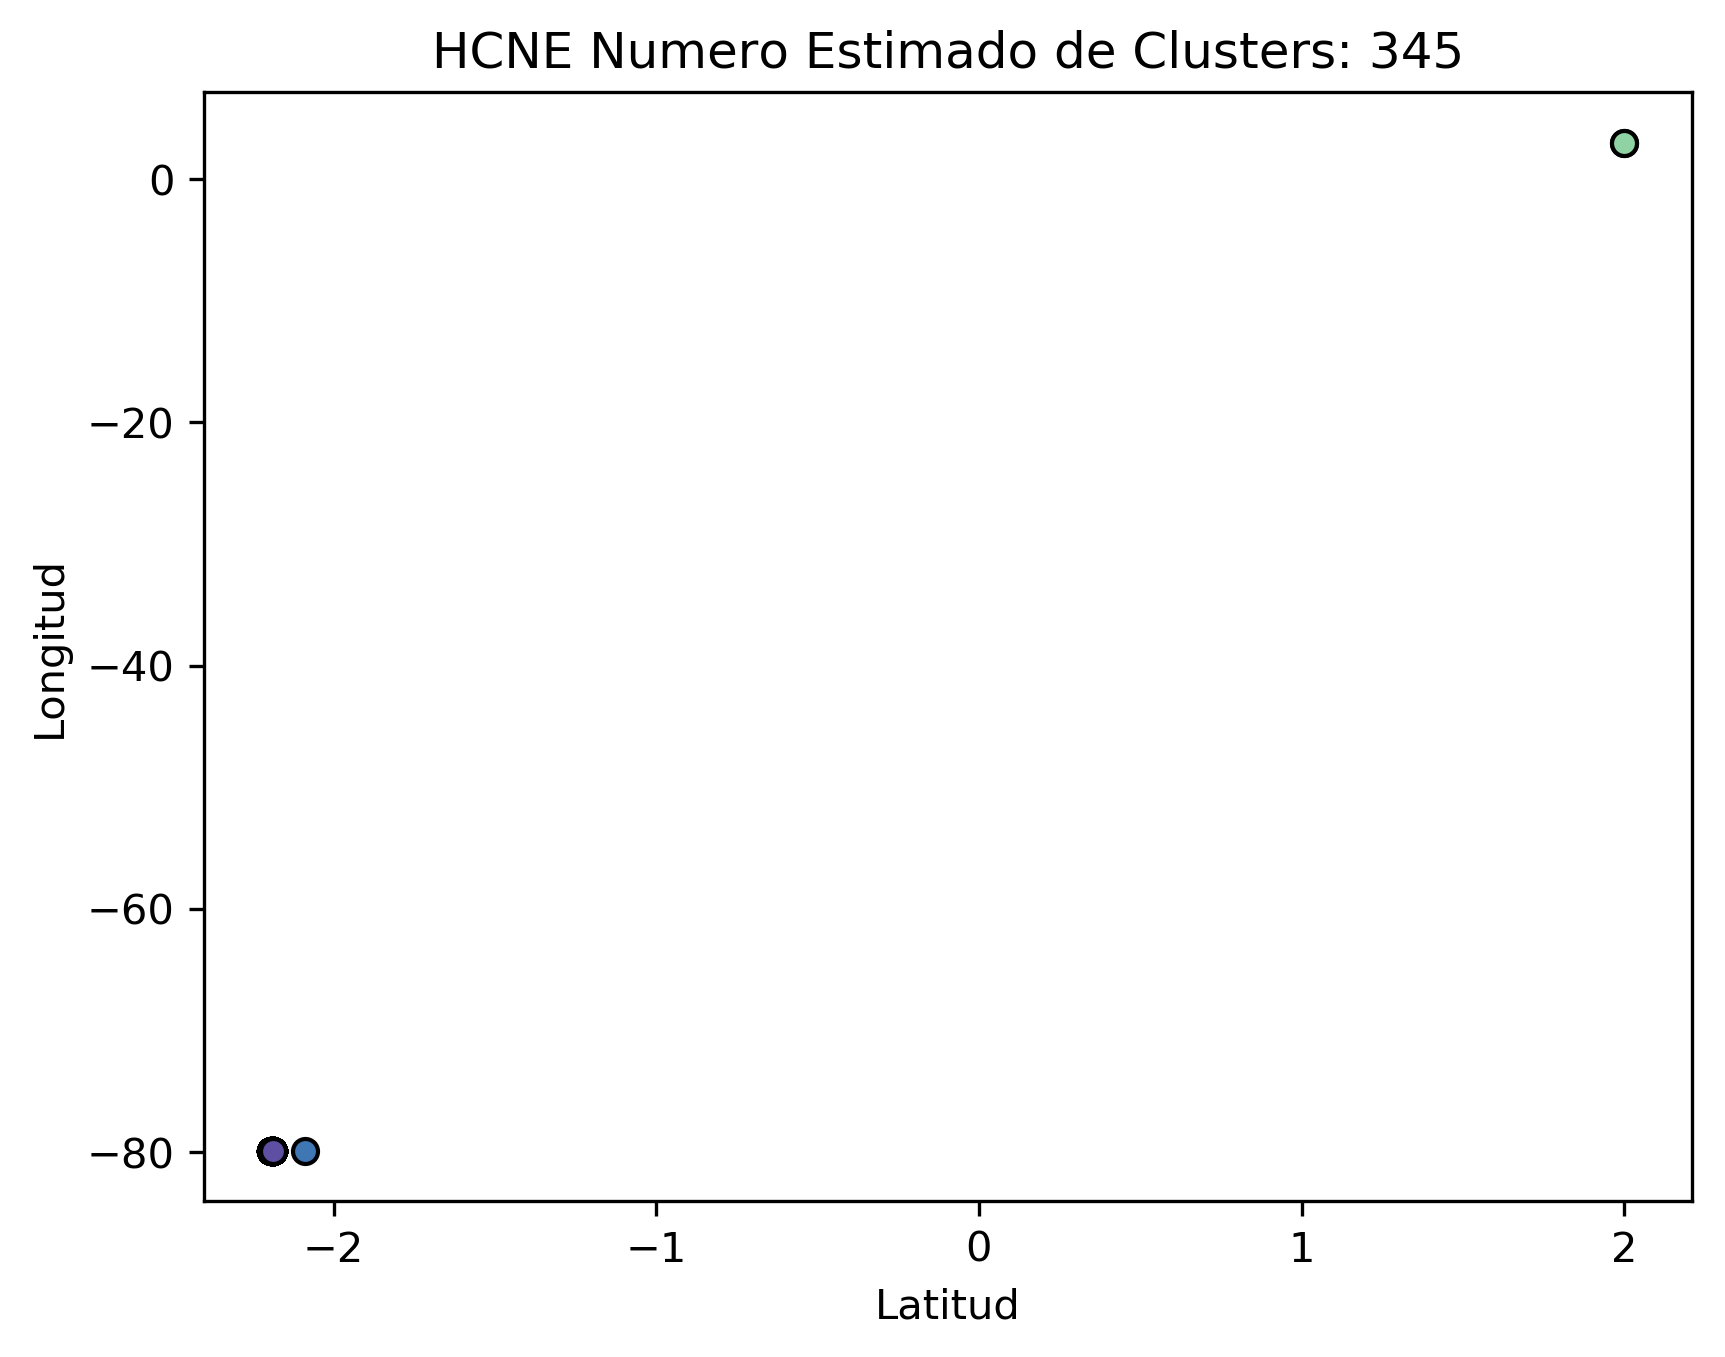
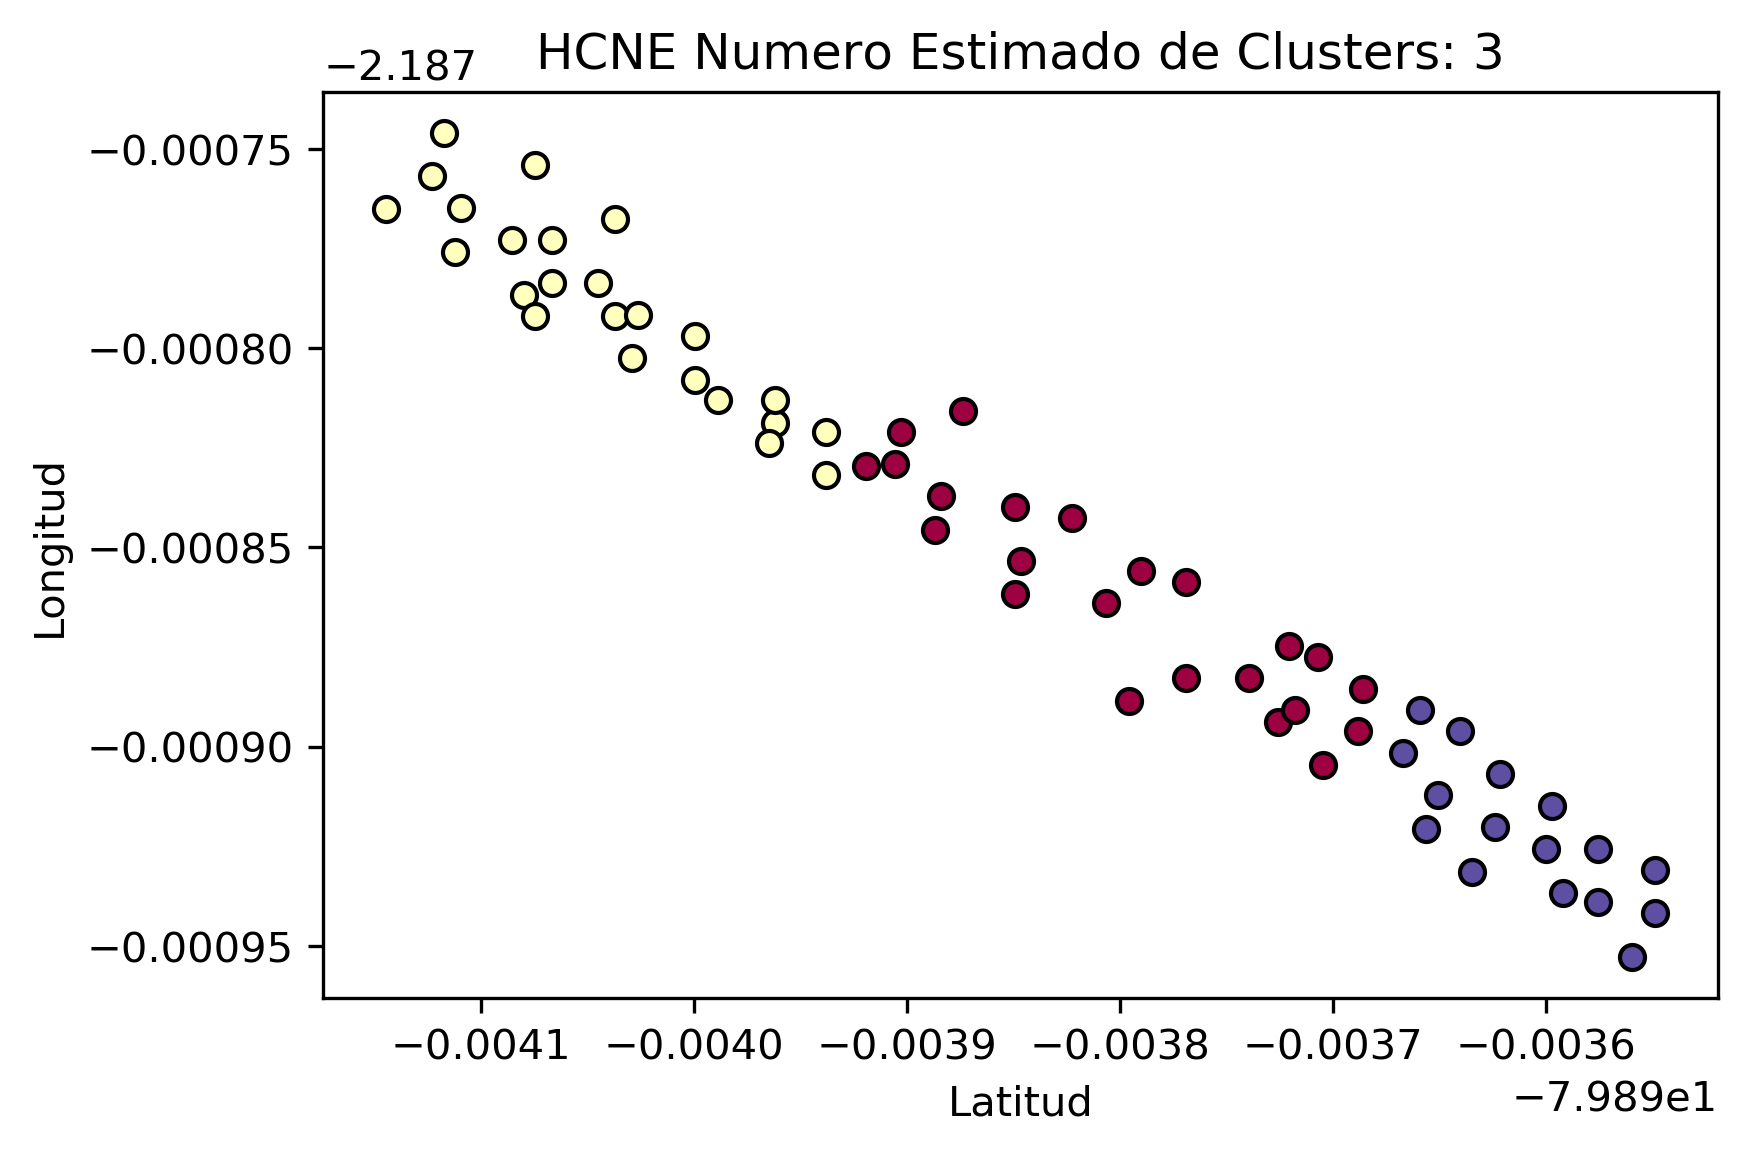
‘py1’

diff --git a/resources/views/layouts/admin/analisis/trayectoriapuntos.blade.php b/resources/views/layouts/admin/analisis/trayectoriapuntos.blade.php
@@ -49,12 +49,12 @@
         </tr>
         <tr>        
           <td align="r" colspan="2">
-            <input class="btn btn-sm btn-warning" type="button" value="KMEANS"    name="bt_kmean"  id="bt_kmean"  align="center" onclick="nn();"/>
-            <input class="btn btn-sm btn-warning" type="button" value="DBSCAN"    name="bt_dbscan"  id="bt_dbscan"  align="center" onclick="nn();"/>
-            <input class="btn btn-sm btn-warning" type="button" value="HCN"    name="bt_hcn"  id="bt_hcn"  align="center" onclick="nn();"/>
-            <input class="btn btn-sm btn-warning" type="button" value="HCNE"    name="bt_hcne"  id="bt_hcne"  align="center" onclick="nn();"/>         
+            <input class="btn btn-sm btn-warning" type="button" value="KMEANS"    name="bt_kmean"  id="bt_kmean"  align="center" onclick="ajax_python1();nn(1);"/>
+            <input class="btn btn-sm btn-warning" type="button" value="DBSCAN"    name="bt_dbscan"  id="bt_dbscan"  align="center" onclick="ajax_python2();nn(2);"/>
+            <input class="btn btn-sm btn-warning" type="button" value="HCN"    name="bt_hcn"  id="bt_hcn"  align="center" onclick="ajax_python3();nn(3);"/>
+            <input class="btn btn-sm btn-warning" type="button" value="HCNE"    name="bt_hcne"  id="bt_hcne"  align="center" onclick="ajax_python4();nn(4);"/>         
           </td>        
-        </tr>     
+        </tr>       
       </table>
     </form>
 
@@ -82,11 +82,12 @@
  
   <script>      
   
-    function nn(){
-                 $.ajax(
+    function nn(algoritmo){
+
+                $.ajax(
             {
               type:"GET",
-              url: "ajax_python/1/1/1",              
+              url: "ajax_python/1/1/"+algoritmo,              
               success: function(result)
               {
               console.log(result); 
@@ -94,13 +95,29 @@
               var newcoor2       = new Array();
                 newcoor2[0]    = result[0];
                 newcoor2[1]    = result[1];
-              L.marker(newcoor2, {icon: Icon_limite2}).addTo(mymap).bindPopup("Lat: "+lat+" lng: "+lng); 
-               },
+              L.marker(newcoor2, {icon: Icon_limite2}).addTo(mymap).bindPopup("Lat: "+result[0]+" lng: "+result[1]+" Algoritmo:  "+result[6]); 
+
+              console.log(result); 
+                //var imagen = document.getElementById('imagen').src = "{{ asset('img/images/analisis2.png') }}";
+              var newcoor3       = new Array();
+                newcoor3[0]    = result[2];
+                newcoor3[1]    = result[3];
+              L.marker(newcoor3, {icon: Icon_limite2}).addTo(mymap).bindPopup("Lat: "+result[2]+" lng: "+result[3]+" Algoritmo:  "+result[6]); 
+
+
+              console.log(result); 
+                //var imagen = document.getElementById('imagen').src = "{{ asset('img/images/analisis2.png') }}";
+              var newcoor4       = new Array();
+                newcoor4[0]    = result[4];
+                newcoor4[1]    = result[5];
+              L.marker(newcoor4, {icon: Icon_limite2}).addTo(mymap).bindPopup("Lat: "+result[4]+" lng: "+result[5]+" Algoritmo:  "+result[6]); 
+
+              },
            error:function(result){
-            swal("", "Error al generar el análisis.!", "success",{icon: "warning",});            
-           }
+            swal("", "Error al generar el análisis.!", "success",{icon: "warning",});
+            }
             });
-    }  
+    }
       var cont_vehiculos=0;
       var bandera_analisis;      
       var latlngs      = new Array();
@@ -448,21 +465,17 @@
   <table>
       <tr>
         <th>
-                    <input class="btn btn-sm btn-warning" type="button" value="DBSCAM"   name="bt_analisis" align="center" onclick="ajax_python1();"/>
               <img src="" id="imagen1" class="img-responsive" style="height: 450px;">
         </th>
-        <th>
-                    <input class="btn btn-sm btn-warning" type="button" value="kmeans"   name="bt_analisis" align="center" onclick="ajax_python2();"/>
+
             <img src="" id="imagen2" class="img-responsive" style="height: 450px;">
         </th>
       </tr>
       <tr>
         <th>
-                  <input class="btn btn-sm btn-warning" type="button" value="HCE"   name="bt_analisis" align="center" onclick="ajax_python3();"/>
               <img src="" id="imagen3" class="img-responsive" style="height: 450px;">
         </th>
         <th>
-          <input class="btn btn-sm btn-warning" type="button" value="HCNE"   name="bt_analisis" align="center" onclick="ajax_python4();"/>
           <img src="" id="imagen4" class="img-responsive" style="height: 450px;">
         </th>
       </tr>

diff --git a/resources/views/layouts/admin/analisis/analisis.blade.php b/resources/views/layouts/admin/analisis/analisis.blade.php
@@ -56,8 +56,8 @@
           <td align="r" colspan="2">
             <input class="btn btn-sm btn-warning" type="button" value="KMEANS"    name="bt_kmean"  id="bt_kmean"  align="center" onclick="ajax_python1();nn(1);"/>
             <input class="btn btn-sm btn-warning" type="button" value="DBSCAN"    name="bt_dbscan"  id="bt_dbscan"  align="center" onclick="ajax_python2();nn(2);"/>
-            <input class="btn btn-sm btn-warning" type="button" value="HCN"    name="bt_hcn"  id="bt_hcn"  align="center" onclick="nn(3);"/>
-            <input class="btn btn-sm btn-warning" type="button" value="HCNE"    name="bt_hcne"  id="bt_hcne"  align="center" onclick="nn(4);"/>         
+            <input class="btn btn-sm btn-warning" type="button" value="HCN"    name="bt_hcn"  id="bt_hcn"  align="center" onclick="ajax_python3();nn(3);"/>
+            <input class="btn btn-sm btn-warning" type="button" value="HCNE"    name="bt_hcne"  id="bt_hcne"  align="center" onclick="ajax_python4();nn(4);"/>         
           </td>        
         </tr>      
       </table>

diff --git a/app/Http/Controllers/AdminController.php b/app/Http/Controllers/AdminController.php
@@ -318,7 +318,7 @@ class AdminController extends Controller
         $test1 = shell_exec("python3 /var/www/html/fci-prueba/resources/views/layouts/admin/analisis/HCE.py");
         $a=array();
         $linea = 0;
-        $archivo = fopen("/var/www/html/fci-prueba/resources/views/layouts/admin/analisis/data/HCe/centroides-HCe.csv", "r");
+        $archivo = fopen("/var/www/html/fci-prueba/resources/views/layouts/admin/analisis/data/HCe/centroides-HCne.csv", "r");
         while (($datos = fgetcsv($archivo, ",")) == true) 
         {
           $num = count($datos);

diff --git a/resources/views/layouts/admin/analisis/HCE.py b/resources/views/layouts/admin/analisis/HCE.py
@@ -22,7 +22,7 @@ from postlearn.cluster import compute_centers, plot_decision_boundry ## postlear
 # In[7]:
 
 
-conn = pg.connect(database='datos_gye', user='postgres', password='admin1234',host='52.38.27.79',port='5432')
+conn = pg.connect(database='gye_datoss', user='postgres', password='admin1234',host='52.38.27.79',port='5432')
 df =  psql.read_sql("SELECT * FROM trayectoria_gye_hist limit 5000",conn)
 coords = df.as_matrix(columns=['longitud', 'latitud'])
 

diff --git a/resources/views/layouts/admin/analisis/DBSCAN.py b/resources/views/layouts/admin/analisis/DBSCAN.py
@@ -26,7 +26,7 @@ import requests
 
 
 #CONEXION CON LA BASE DE DATOS GYE
-conn2 = pg.connect(database='datos_gye', user='postgres', password='admin1234',host='52.38.27.79',port='5432')
+conn2 = pg.connect(database='gye_datoss', user='postgres', password='admin1234',host='52.38.27.79',port='5432')
 df =  psql.read_sql("SELECT * FROM trayectoria_gye_hist limit 5000 ",conn2)
 coords = df.as_matrix(columns=['longitud', 'latitud'])
 

diff --git a/resources/views/layouts/admin/analisis/HCNE.py b/resources/views/layouts/admin/analisis/HCNE.py
@@ -19,7 +19,7 @@ import pandas.io.sql as psql
 # In[2]:
 
 
-conn = pg.connect(database='datos_gye', user='postgres', password='admin1234',host='52.38.27.79',port='5432')
+conn = pg.connect(database='gye_datoss', user='postgres', password='admin1234',host='52.38.27.79',port='5432')
 df =  psql.read_sql("SELECT * FROM trayectoria_gye_hist limit 5000",conn)
 coords = df.as_matrix(columns=['longitud', 'latitud'])
 
